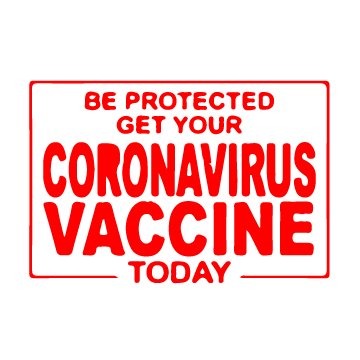
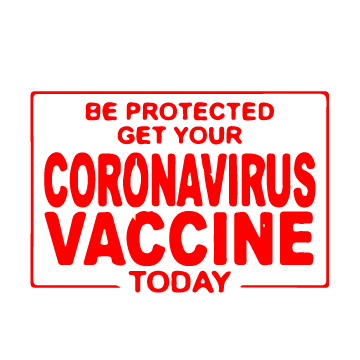
cover

Changed region(s): [[0.0611, 0.2139, 0.9167, 0.825]]

diff --git a/index.html b/index.html
@@ -102,12 +102,12 @@
     <div class="row products-row">
 
       <div class="products_stripe">
-        <div class="collCard"> <img class="thumbImg" src="assets/visual/skull.png" alt=""> </div>
-        <div class="collCard"> <img class="thumbImg" src="assets/visual/skull.png" alt=""> </div>
-        <div class="collCard"> <img class="thumbImg" src="assets/visual/skull.png" alt=""> </div>
-        <div class="collCard"> <img class="thumbImg" src="assets/visual/skull.png" alt=""> </div>
-        <div class="collCard"> <img class="thumbImg" src="assets/visual/skull.png" alt=""> </div>
-        <div class="collCard"> <img class="thumbImg" src="assets/visual/skull.png" alt=""> </div>
+        <div class="collCard"> <img class="thumbImg" src="https://t4.ftcdn.net/jpg/03/09/97/57/360_F_309975771_1LcdaVK6D7eokEDzaAInNBGOG5tA9M80.jpg" alt=""> </div>
+        <div class="collCard"> <img class="thumbImg" src="https://t4.ftcdn.net/jpg/03/09/97/57/360_F_309975771_1LcdaVK6D7eokEDzaAInNBGOG5tA9M80.jpg" alt=""> </div>
+        <div class="collCard"> <img class="thumbImg" src="https://t4.ftcdn.net/jpg/03/09/97/57/360_F_309975771_1LcdaVK6D7eokEDzaAInNBGOG5tA9M80.jpg" alt=""> </div>
+        <div class="collCard"> <img class="thumbImg" src="https://t4.ftcdn.net/jpg/03/09/97/57/360_F_309975771_1LcdaVK6D7eokEDzaAInNBGOG5tA9M80.jpg" alt=""> </div>
+        <div class="collCard"> <img class="thumbImg" src="https://t4.ftcdn.net/jpg/03/09/97/57/360_F_309975771_1LcdaVK6D7eokEDzaAInNBGOG5tA9M80.jpg" alt=""> </div>
+        <div class="collCard"> <img class="thumbImg" src="https://t4.ftcdn.net/jpg/03/09/97/57/360_F_309975771_1LcdaVK6D7eokEDzaAInNBGOG5tA9M80.jpg" alt=""> </div>
       </div>
 
     </div>

diff --git a/css/home.css b/css/home.css
@@ -7,15 +7,15 @@
 }
 
 #logo_cover{
-  width: 25vw;
+  width: 40vw;
   position: relative;
-  top: 50%;
+  top: 60%;
   left: 50%;
   transform: translate(-50%, -75%);
 }
 
 #cover .scroll{
-  width:100%;
+  width:fit-content;
   display:flex;
   border:4px solid red;
 }
@@ -25,7 +25,7 @@
   background-color: white;
   white-space: nowrap;
   font-family: saint_regussemi_bold;
-  font-size:4em;
+  font-size:3rem;
   text-transform: uppercase;
   animation:scrolling1 40s linear infinite;
   animation-delay:-40s;
@@ -61,7 +61,23 @@
 }
 
 #cover .scroll.text1{
-  transform:rotate(30deg);
+  transform:rotate(15deg) translateY(500px);
+  transform-origin: center;
+}
+
+#cover .scroll.text2{
+  transform:rotate(-8deg) translateY(-500px);
+  transform-origin: center;
+}
+
+#cover .scroll.text3{
+  transform:rotate(20deg) translateY(1100px);
+  transform-origin: center;
+}
+
+#cover .scroll.text4{
+  transform:rotate(-8deg) translateY(-200px);
+  transform-origin: center;
 }
 
 /*______________________________________________________main*/
@@ -98,10 +114,6 @@
 .spacer-big {
   height: 25rem;
   width: 100%;
-}
-
-.products-row{
-  width:99vw;
 }
 
 .products_stripe {

diff --git a/css/style.css b/css/style.css
@@ -141,6 +141,7 @@ html{
 
 main{
   position: absolute;
+  width:100%;
   top: 6vh;
   bottom: 0;
   overflow-y: scroll;
